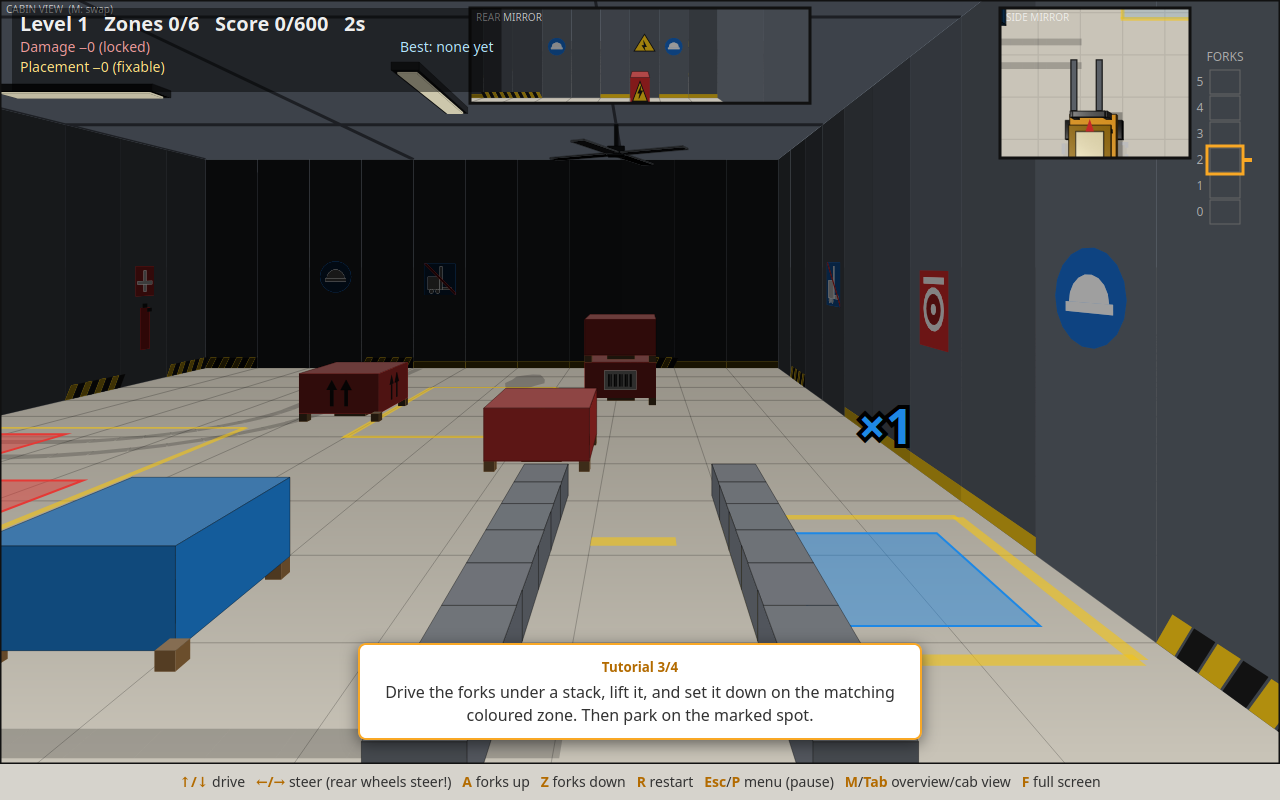
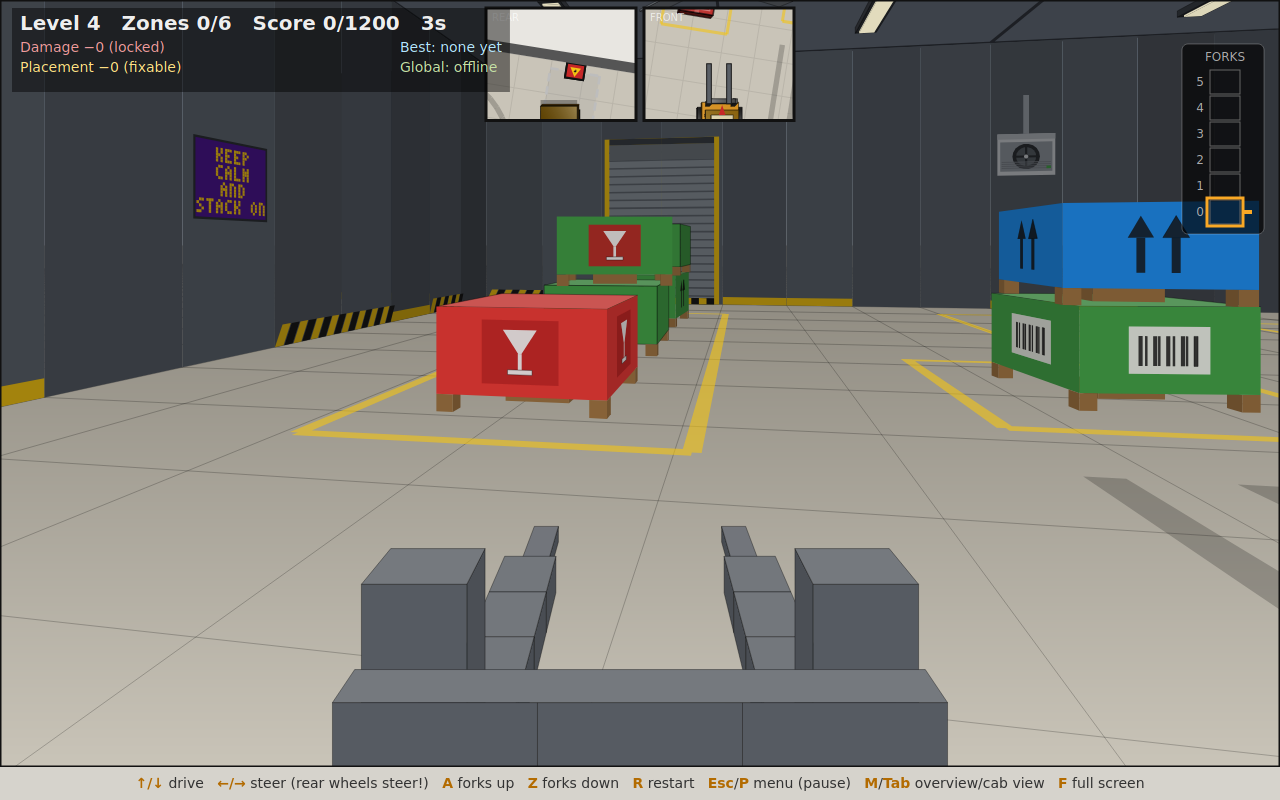
Refresh presentation: new screenshots, new slides, updated stats and chart

diff --git a/docs/presentation.html b/docs/presentation.html
@@ -27,7 +27,7 @@
   figure img { width: 100%; border-radius: 8px; border: 1px solid #2a313b; box-shadow: 0 6px 24px #0008; display: block; }
   figcaption { font-size: 1.1vw; color: #9aa4b2; margin-top: 1vh; }
   .chart { display: flex; gap: 1.2vw; align-items: flex-end; justify-content: center; height: 52vh; margin-top: 1vh; }
-  .col { display: flex; flex-direction: column; align-items: center; justify-content: flex-end; width: 9vw; }
+  .col { display: flex; flex-direction: column; align-items: center; justify-content: flex-end; width: 6.5vw; }
   .col .n { font-size: 2.2vw; font-weight: bold; color: #ffc933; margin-bottom: .6vh; }
   .col .stack { display: flex; flex-direction: column-reverse; width: 100%; border-bottom: 3px solid #6b7684; padding-bottom: 2px; }
   .col .stack i { display: block; width: 100%; margin-top: 1px; border-radius: 2px; box-sizing: border-box; border: 1px solid #0006; box-shadow: inset 0 -2px #0004, inset 0 2px #fff3; }
@@ -44,7 +44,7 @@
 <section class="slide">
   <h1>Forklift Frenzy</h1>
   <div class="sub">The development timeline of a top-down, keyboard-only forklift puzzle</div>
-  <div class="sub" style="margin-top:3vh">21 – 28 October 2026 · 235 commits · vanilla JS + Canvas 2D · no build, no dependencies</div>
+  <div class="sub" style="margin-top:3vh">21 October – 2 November 2026 · 331 commits · vanilla JS + Canvas 2D · no build, no dependencies</div>
   <div class="sub" style="margin-top:6vh;font-size:1.4vw">← / → or Space to navigate</div>
 </section>
 
@@ -58,10 +58,10 @@
     <li>Static files on GitHub Pages (and an installable PWA); Firefox is the primary target</li>
   </ul>
   <div class="stats">
-    <div class="stat"><b>~3.9k</b><span>lines of JS</span></div>
-    <div class="stat"><b>235</b><span>commits</span></div>
+    <div class="stat"><b>~4.5k</b><span>lines of JS</span></div>
+    <div class="stat"><b>331</b><span>commits</span></div>
     <div class="stat"><b>0</b><span>dependencies</span></div>
-    <div class="stat"><b>8</b><span>days (7 with commits)</span></div>
+    <div class="stat"><b>13</b><span>days (11 with commits)</span></div>
   </div>
 </section>
 
@@ -179,7 +179,7 @@
     <li>Fullscreen is an opt-in menu setting; pause-menu touches no longer reach the pad</li>
     <li>Service worker auto-reloads on a new version</li>
   </ul>
-  <figure><img src="shots/10-splash-figure-eight.png" alt=""><figcaption>The new splash screen (HEAD)</figcaption></figure>
+  <figure><img src="shots/10-splash-figure-eight.png" alt=""><figcaption>The splash screen</figcaption></figure>
   </div>
 </section>
 
@@ -192,6 +192,60 @@
     <li>Tutorial restart moved from the <code>H</code> key to a pause-menu button</li>
     <li>Pause-menu shortcuts for tutorial, resume, auto-fullscreen and hard mode dropped</li>
   </ul>
+</section>
+
+<section class="slide">
+  <div class="date">Days 8–9 · 28 – 29 Oct</div>
+  <h2>The cabin view, rebuilt</h2>
+  <div class="row">
+  <ul>
+    <li>Cabin renderer rewritten as modular <code>js/pov/</code>, first with identical output</li>
+    <li>New forks and camera: the eye follows fork height and the view tilts with the forks</li>
+    <li>More factory fluff: AC units, toilet doors, deer sign, roller doors and slogan posters</li>
+    <li>Doorways with hazard thresholds, jamb posts and a header beam</li>
+    <li>Faster: occlusion and off-screen culling, batched floor decals</li>
+  </ul>
+  <figure><img src="shots/07-cabin-latest.png" alt=""><figcaption>Cabin view with poster, AC unit, roller door and look windows (HEAD)</figcaption></figure>
+  </div>
+</section>
+
+<section class="slide">
+  <div class="date">Days 9–10 · 29 – 31 Oct</div>
+  <h2>Look windows &amp; a calmer floor</h2>
+  <ul>
+    <li>Mirrors replaced by two small top-down look windows: just ahead of the forks and just behind the tail</li>
+    <li>Start stacks cluster in bays with a big yellow outline; fewer random floor decals, yellow kept out of doorways</li>
+    <li>Cabin zone labels are clipped by walls and boxes in front of them; longer decal draw distance</li>
+    <li>The static top-down floor is cached in an offscreen canvas</li>
+    <li>Touch easter egg: tap the minimap to swap overview and cab view</li>
+  </ul>
+</section>
+
+<section class="slide">
+  <div class="date">Day 12 · 1 Nov</div>
+  <h2>Online scores &amp; a testing site</h2>
+  <ul>
+    <li>Local high scores are uploaded to an online server; the HUD and a start board show local and global best</li>
+    <li>GitHub Pages workflow deploys <code>main</code> to the site and <code>testing</code> to <code>/testing/</code></li>
+    <li>Everything except the production host gets a red TESTING banner and favicon; scores are only posted from production</li>
+    <li>Touch polish: centred two-row button labels, overview forced in portrait, pad ignored behind overlays</li>
+    <li>Backing box behind the fork level gauge</li>
+  </ul>
+</section>
+
+<section class="slide">
+  <div class="date">Days 12–13 · 1 – 2 Nov</div>
+  <h2>Wonky stacks &amp; sturdier levels</h2>
+  <div class="row">
+  <ul>
+    <li>Fresh stacks start slightly crooked; crooked zone stacks get a popup and a sad wah-wah (an off-key success chime)</li>
+    <li>Level generator rejects levels with unreachable stacks or zones and retries the same level</li>
+    <li>Saves validate the full snapshot and persist the game clock</li>
+    <li>Dead-code audit; shared drawing for extruded box and forklift sides</li>
+    <li>43 humorous slogan posters for the walls (next slides)</li>
+  </ul>
+  <figure><img src="shots/11-cabin-wonky-stack.png" alt=""><figcaption>A wonky stack in the cabin view (HEAD)</figcaption></figure>
+  </div>
 </section>
 
 <section class="slide">
@@ -216,7 +270,7 @@
   <h2>Where it ended up</h2>
   <div style="display:flex;gap:2vw;align-items:flex-start;justify-content:center">
     <figure style="margin:0;flex:1"><img src="shots/06-overview-latest.png" alt=""><figcaption style="text-align:center">Overview: tutorial, fork gauge, yellow drop-off outlines</figcaption></figure>
-    <figure style="margin:0;flex:1"><img src="shots/07-cabin-latest.png" alt=""><figcaption style="text-align:center">Cabin view: mirrors, ceiling lights, decals and zone labels</figcaption></figure>
+    <figure style="margin:0;flex:1"><img src="shots/07-cabin-latest.png" alt=""><figcaption style="text-align:center">Cabin view: look windows, ceiling lights, decals and zone labels</figcaption></figure>
   </div>
 </section>
 
@@ -242,10 +296,13 @@
     <li><b>24 Oct</b> – handling, decals, factory look, debug tools</li>
     <li><b>25 Oct</b> – reversing aids, music, saves, touch controls, PWA</li>
     <li><b>26 – 27 Oct</b> – landscape layout, brake removed, touch fixes</li>
-    <li><b>28 Oct</b> – animated splash, new soundtrack, menu cleanup</li>
+    <li><b>28 Oct</b> – animated splash, new soundtrack, menu cleanup, cabin view rebuilt</li>
+    <li><b>29 Oct</b> – look windows, bays, doorways, more wall decor, faster cabin view</li>
+    <li><b>31 Oct – 1 Nov</b> – touch easter egg, online scores, testing site, wonky stacks</li>
+    <li><b>2 Nov</b> – reachable levels, sturdier saves, 43 slogan posters</li>
   </ul>
-  <div class="bar"><div class="on"></div><div></div><div class="on"></div><div class="on"></div><div class="on"></div><div class="on"></div><div class="on"></div><div class="on"></div></div>
-  <div class="sub" style="margin-top:1vh;font-size:1.3vw">21 · 22 · 23 · 24 · 25 · 26 · 27 · 28 Oct (no commits on the 22nd) · biggest day was day 1, then steady polish</div>
+  <div class="bar"><div class="on"></div><div></div><div class="on"></div><div class="on"></div><div class="on"></div><div class="on"></div><div class="on"></div><div class="on"></div><div class="on"></div><div></div><div class="on"></div><div class="on"></div><div class="on"></div></div>
+  <div class="sub" style="margin-top:1vh;font-size:1.3vw">21 Oct – 2 Nov, 13 days (no commits on the 22nd and 30th) · biggest day was day 1, then steady polish</div>
 </section>
 
 <section class="slide">
@@ -255,7 +312,7 @@
 
 <div id="nav"></div>
 <script>
-  const perDay = {"21 Oct":[851,243,23,147,109,14,24,65,40,57,56,1,54,2,4,121,33,23,35,28,35,63,78,169,141,2,86,50,87,10,7,6,12,104,118,83,18,43,21,14,7,39,15,3,0,41,13,44,2,18,40,17,106,19,19,52,78,14,4,7,0,11,0,52,11,13,12,4,25,6,29,55,7,0,39,8,2,4,2],"22 Oct":[],"23 Oct":[100,46,48,35,30,29,53,0,86,0,67,176,2,0,105,35,84,21,16,29,11,22,399,55,25,35,88,17],"24 Oct":[50,0,19,0,51,0,16,0,250,21,129,39,29,75,2,0,19,25,31,2,10,74,44,90,36,23],"25 Oct":[20,26,107,6,14,20,202,62,41,42,156,194,96,28,0,132,7,4,18,36,3,96,41,4,58,187,28,28,0,3,59,8,126,4,50,10,7,0,43,70,72,6,6,9,152,8,2,57,4],"26 Oct":[33,0,48,6,21,100,1,0],"27 Oct":[8,8,0,11,0,20,0,2,2,14,0,43,2,2,6,6,4,27,33,11,25,15,41,9],"28 Oct":[9,0,12,0,10,8,23,112,8,25,1,62,16,53,18,17,31,20,2,11,11]};
+  const perDay = {"21 Oct":[851,243,23,147,109,14,24,65,40,57,56,1,54,2,4,121,33,23,35,28,35,63,78,169,141,2,86,50,87,10,7,6,12,104,118,83,18,43,21,14,7,39,15,3,0,41,13,44,2,18,40,17,106,19,19,52,78,14,4,7,0,11,0,52,11,13,12,4,25,6,29,55,7,0,39,8,2,4,2],"22 Oct":[],"23 Oct":[100,46,48,35,30,29,53,0,86,0,67,176,2,0,105,35,84,21,16,29,11,22,399,55,25,35,88,17],"24 Oct":[50,0,19,0,51,0,16,0,250,21,129,39,29,75,2,0,19,25,31,2,10,74,44,90,36,23],"25 Oct":[20,26,107,6,14,20,202,62,41,42,156,194,96,28,0,132,7,4,18,36,3,96,41,4,58,187,28,28,0,3,59,8,126,4,50,10,7,0,43,70,72,6,6,9,152,8,2,57,4],"26 Oct":[33,0,48,6,21,100,1,0],"27 Oct":[8,8,0,11,0,20,0,2,2,14,0,43,2,2,6,6,4,27,33,11,25,15,41,9],"28 Oct":[9,0,12,0,10,8,23,112,8,25,1,62,16,53,18,17,31,20,2,11,11,147,0,10,4,2,0,1,1,1,1161],"29 Oct":[9,9,10,2,46,37,2,6,27,24,127,18,24,28,1,1,155,0,2,86,35,2,0,13,15,4,72,10,0,3],"30 Oct":[],"31 Oct":[32,0,0,19,3,5],"1 Nov":[83,77,61,12,0,26,0,0,10,0,5,0,6,2,0,0,18,72,0,7,7,0,14,24,0,91,2,10,2,4,20,0,4,0],"2 Nov":[15,0,40,0,64,18,0,30,0,0,12,0,58,10,25,66]};
   const chart = document.getElementById('chart');
   for (const [day, commits] of Object.entries(perDay)) {
     const total = commits.reduce((a, b) => a + b, 0);
